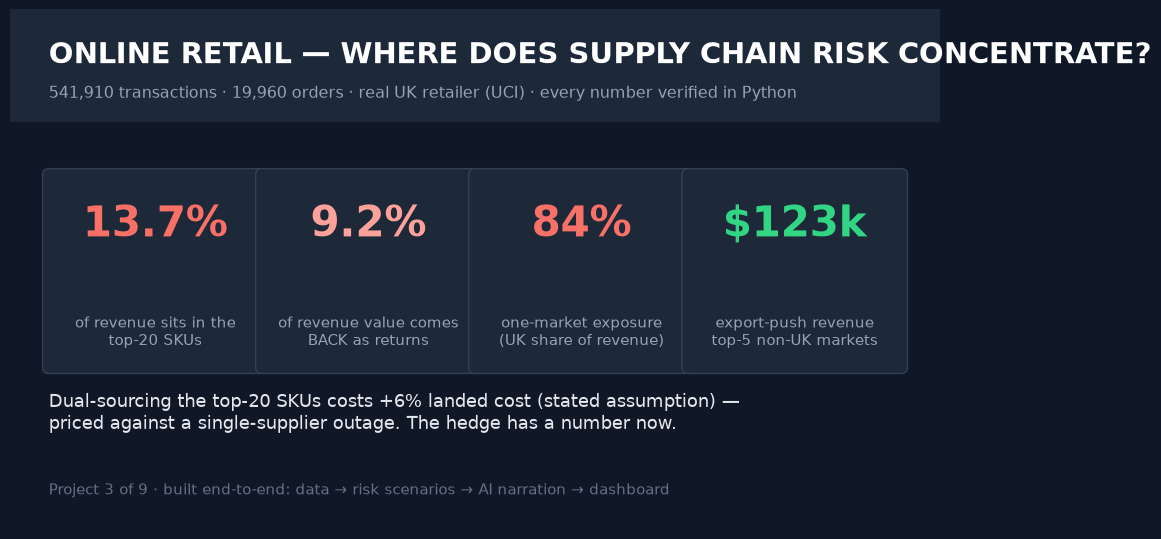
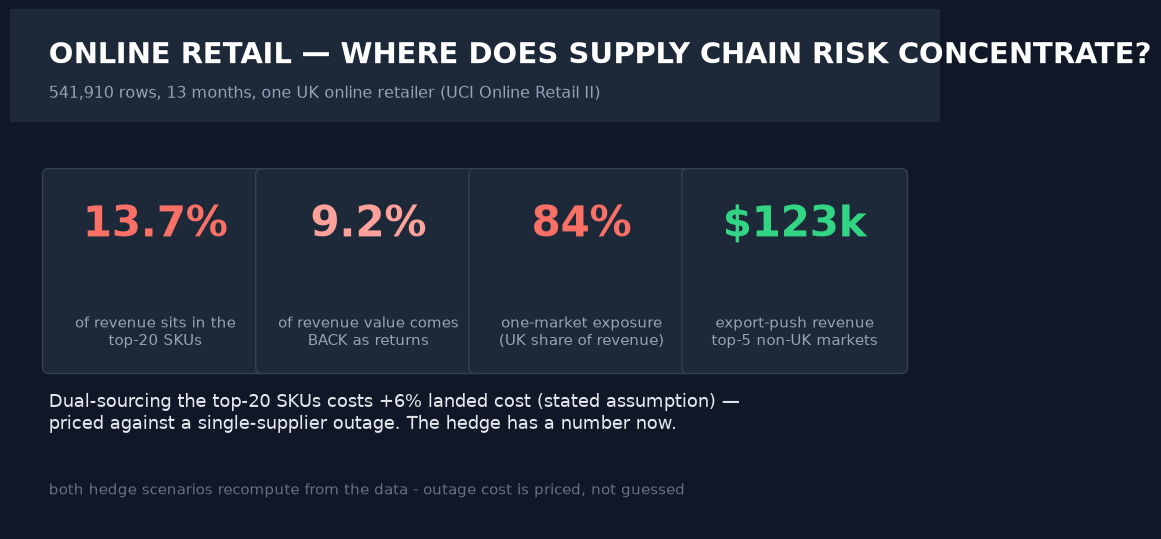
readme and hero slides say things plainly now; project 01 chat shot re-rendered without the emoji

Changed region(s): [[0.093, 0.1484, 0.6822, 0.2078], [0.031, 0.8905, 0.5891, 0.9202]]

diff --git a/projects/01-consulting-churn/assets/chat_session.html b/projects/01-consulting-churn/assets/chat_session.html
@@ -1,0 +1,35 @@
+<!doctype html><html><head><meta charset="utf-8"><style>body { margin:0; background:#0b1220; font-family: 'Liberation Mono', 'SF Mono', monospace; }
+.term { margin: 24px; padding: 20px 24px; background: #0d1117; border: 1px solid #2d333b;
+        border-radius: 10px; color: #c9d1d9; font-size: 15px; line-height: 1.5; white-space: pre-wrap; }
+.bar { display:flex; gap:8px; margin-bottom:14px; }
+.dot { width:12px; height:12px; border-radius:50%; }
+.title { color:#8b949e; margin-left:8px; font-size: 13px; }
+.you { color: #58a6ff; font-weight: bold; }
+.warn { color: #d2a8ff; }
+.ok { color: #7ee787; }
+.money { color: #ffa657; }
+h1 { color:#e6edf3; font-family: 'Liberation Sans', -apple-system, sans-serif; margin: 20px 0 0 24px; font-size: 22px; }</style></head>
+<body>
+<h1>Ask-the-data chatbot — live session (real output)</h1>
+<div class="term"><div class="bar">
+<div class="dot" style="background:#ff5f57"></div><div class="dot" style="background:#febc2e"></div>
+<div class="dot" style="background:#28c840"></div><span class="title">terminal — 01-consulting-churn</span></div>
+<span class="you">you&gt; churn by contract</span><br><div class="">(offline&nbsp;engine&nbsp;—&nbsp;every&nbsp;number&nbsp;below&nbsp;recomputed&nbsp;from&nbsp;the&nbsp;csv)</div>
+<div class="">&nbsp;</div>
+<div class="money">Churn&nbsp;by&nbsp;contract&nbsp;—&nbsp;Month-to-month:&nbsp;42.7%&nbsp;of&nbsp;3,875;&nbsp;One&nbsp;year:&nbsp;11.3%&nbsp;of&nbsp;1,473;&nbsp;Two&nbsp;year:&nbsp;2.8%&nbsp;of&nbsp;1,695</div>
+<div class="">&nbsp;</div>
+<div class="ok">Overall:&nbsp;1,869&nbsp;of&nbsp;7,043&nbsp;churn&nbsp;(26.5%);&nbsp;$139,131&nbsp;MRR&nbsp;at&nbsp;risk.</div><br><span class="you">you&gt; top 5 customers by churn risk</span><br><div class="">(offline&nbsp;engine&nbsp;—&nbsp;every&nbsp;number&nbsp;below&nbsp;recomputed&nbsp;from&nbsp;the&nbsp;csv)</div>
+<div class="">&nbsp;</div>
+<div class="ok">Top-5&nbsp;by&nbsp;expected&nbsp;value&nbsp;(p_churn&nbsp;×&nbsp;monthly&nbsp;charge):</div>
+<div class="money">&nbsp;&nbsp;1400-MMYXY&nbsp;—&nbsp;p=0.81,&nbsp;$85/mo&nbsp;at&nbsp;risk</div>
+<div class="money">&nbsp;&nbsp;5419-JPRRN&nbsp;—&nbsp;p=0.83,&nbsp;$84/mo&nbsp;at&nbsp;risk</div>
+<div class="money">&nbsp;&nbsp;7216-EWTRS&nbsp;—&nbsp;p=0.83,&nbsp;$84/mo&nbsp;at&nbsp;risk</div>
+<div class="money">&nbsp;&nbsp;6496-SLWHQ&nbsp;—&nbsp;p=0.80,&nbsp;$84/mo&nbsp;at&nbsp;risk</div>
+<div class="money">&nbsp;&nbsp;6023-YEBUP&nbsp;—&nbsp;p=0.83,&nbsp;$83/mo&nbsp;at&nbsp;risk</div>
+<div class="">&nbsp;</div>
+<div class="ok">Overall:&nbsp;1,869&nbsp;of&nbsp;7,043&nbsp;churn&nbsp;(26.5%);&nbsp;$139,131&nbsp;MRR&nbsp;at&nbsp;risk.</div><br><span class="you">you&gt; what is the retention roi</span><br><div class="">(offline&nbsp;engine&nbsp;—&nbsp;every&nbsp;number&nbsp;below&nbsp;recomputed&nbsp;from&nbsp;the&nbsp;csv)</div>
+<div class="">&nbsp;</div>
+<div class="ok">ROI&nbsp;scenario&nbsp;(assumptions:&nbsp;outreach&nbsp;cost&nbsp;per&nbsp;contacted&nbsp;customer&nbsp;=&nbsp;$50,&nbsp;save&nbsp;rate&nbsp;=&nbsp;10%&nbsp;of&nbsp;contacted&nbsp;customers,&nbsp;program&nbsp;budget&nbsp;=&nbsp;$10,000&nbsp;-&gt;&nbsp;200&nbsp;contacts):</div>
+<div class="ok">&nbsp;&nbsp;$10,000&nbsp;cost&nbsp;→&nbsp;$17,721&nbsp;retained&nbsp;12-mo&nbsp;→&nbsp;1.8x&nbsp;ROI</div>
+<div class="">&nbsp;</div>
+<div class="ok">Overall:&nbsp;1,869&nbsp;of&nbsp;7,043&nbsp;churn&nbsp;(26.5%);&nbsp;$139,131&nbsp;MRR&nbsp;at&nbsp;risk.</div></div></body></html>

diff --git a/projects/07-ai-review-intelligence/src/05_linkedin_hero.py b/projects/07-ai-review-intelligence/src/05_linkedin_hero.py
@@ -21,7 +21,7 @@ fig.patch.set_facecolor("#101828")
 ax.add_patch(plt.Rectangle((0, 5.3), 12, 1.45, color="#1d2939"))
 ax.text(0.5, 6.05, "DOES THE LLM BEAT THE $0 BASELINE? MEASURED, NOT VIBED.", fontsize=21,
         fontweight="bold", color="white")
-ax.text(0.5, 5.6, "3,000 labelled reviews (Amazon / IMDB / Yelp) · both classifiers on identical ground truth",
+ax.text(0.5, 5.6, "3,000 labeled reviews: amazon_cells, imdb, yelp (public UCI corpora)",
         fontsize=11.5, color="#94a3b8")
 
 cards = [
@@ -42,7 +42,7 @@ ax.text(0.5, 1.3, "The honest finding: at 150 sampled keys the lexicon fallback 
                   "baseline — so the pipeline ships the BASELINE to production and keeps the AI lane\n"
                   "behind an eval gate. Add an API key and 02_llm_classifier.py re-runs the receipt.",
         fontsize=12.5, color="#e4e7ec")
-ax.text(0.5, 0.45, "Project 7 of 9 · built end-to-end: data → baseline → LLM lane → eval receipts → dashboard",
+ax.text(0.5, 0.45, "both classifiers were scored against the same held-out labels",
         fontsize=10.5, color="#667085")
 
 fig.savefig(OUT / "linkedin_hero.png", dpi=100, bbox_inches="tight",

diff --git a/projects/03-supplychain-retail/src/05_linkedin_hero.py b/projects/03-supplychain-retail/src/05_linkedin_hero.py
@@ -20,7 +20,7 @@ fig.patch.set_facecolor("#101828")
 ax.add_patch(plt.Rectangle((0, 5.3), 12, 1.45, color="#1d2939"))
 ax.text(0.5, 6.05, "ONLINE RETAIL — WHERE DOES SUPPLY CHAIN RISK CONCENTRATE?",
         fontsize=21, fontweight="bold", color="white")
-ax.text(0.5, 5.6, "541,910 transactions · 19,960 orders · real UK retailer (UCI) · every number verified in Python",
+ax.text(0.5, 5.6, "541,910 rows, 13 months, one UK online retailer (UCI Online Retail II)",
         fontsize=11.5, color="#94a3b8")
 
 cards = [
@@ -40,7 +40,7 @@ for value, label, color, x in cards:
 ax.text(0.5, 1.3, "Dual-sourcing the top-20 SKUs costs +6% landed cost (stated assumption) —\n"
                   "priced against a single-supplier outage. The hedge has a number now.",
         fontsize=13, color="#e4e7ec")
-ax.text(0.5, 0.45, "Project 3 of 9 · built end-to-end: data → risk scenarios → AI narration → dashboard",
+ax.text(0.5, 0.45, "both hedge scenarios recompute from the data - outage cost is priced, not guessed",
         fontsize=10.5, color="#667085")
 
 fig.savefig(OUT / "linkedin_hero.png", dpi=100, bbox_inches="tight",

diff --git a/projects/04-finance-portfolio/src/05_linkedin_hero.py b/projects/04-finance-portfolio/src/05_linkedin_hero.py
@@ -19,7 +19,7 @@ fig.patch.set_facecolor("#101828")
 ax.add_patch(plt.Rectangle((0, 5.3), 12, 1.45, color="#1d2939"))
 ax.text(0.5, 6.05, "S&P 500 — THE RETURN IS REAL. SO IS THE WAIT.", fontsize=21,
         fontweight="bold", color="white")
-ax.text(0.5, 5.6, "150 years of Shiller data (1871→) · every number verified in Python",
+ax.text(0.5, 5.6, "150 years of Shiller data, 1871 onward, downloaded and recomputed locally",
         fontsize=11.5, color="#94a3b8")
 
 cards = [
@@ -39,7 +39,7 @@ for value, label, color, x in cards:
 ax.text(0.5, 1.3, "A 9% nominal annual return still hid droughts measured in years:\n"
                   "worst rolling 20-year real outcome was negative. Plan cash flows, not feelings.",
         fontsize=13, color="#e4e7ec")
-ax.text(0.5, 0.45, "Project 4 of 9 · built end-to-end: data → drawdown analysis → AI narration → dashboard",
+ax.text(0.5, 0.45, "the point: a plan that survives being underwater for years, not a return forecast",
         fontsize=10.5, color="#667085")
 
 fig.savefig(OUT / "linkedin_hero.png", dpi=100, bbox_inches="tight",

diff --git a/projects/05-marketing-campaign/src/05_linkedin_hero.py b/projects/05-marketing-campaign/src/05_linkedin_hero.py
@@ -19,7 +19,7 @@ fig.patch.set_facecolor("#101828")
 ax.add_patch(plt.Rectangle((0, 5.3), 12, 1.45, color="#1d2939"))
 ax.text(0.5, 6.05, "TELEMARKETING — TARGET SMARTER, DIAL LESS", fontsize=21,
         fontweight="bold", color="white")
-ax.text(0.5, 5.6, "45,211 call records · bank marketing (UCI) · every number verified in Python",
+ax.text(0.5, 5.6, "45,211 call records from the UCI bank marketing set",
         fontsize=11.5, color="#94a3b8")
 
 cards = [
@@ -40,7 +40,7 @@ ax.text(0.5, 1.3, "The logistic model ranks every prospect by likelihood to subs
                   "Dial the top decile first — the same 10% of contacts carries 61% of\n"
                   "all conversions (6.1x the baseline hit-rate per call).",
         fontsize=13, color="#e4e7ec")
-ax.text(0.5, 0.45, "Project 5 of 9 · built end-to-end: data → model → decile plan → AI narration → dashboard",
+ax.text(0.5, 0.45, "$2.50/call and $120 margin are stated assumptions, not sourced facts",
         fontsize=10.5, color="#667085")
 
 fig.savefig(OUT / "linkedin_hero.png", dpi=100, bbox_inches="tight",

diff --git a/projects/09-management-attrition/src/05_linkedin_hero.py b/projects/09-management-attrition/src/05_linkedin_hero.py
@@ -19,7 +19,7 @@ fig.patch.set_facecolor("#101828")
 ax.add_patch(plt.Rectangle((0, 5.3), 12, 1.45, color="#1d2939"))
 ax.text(0.5, 6.05, "WHY DO PEOPLE LEAVE? THREE MEASURED LEVERS.", fontsize=21,
         fontweight="bold", color="white")
-ax.text(0.5, 5.6, "1,470 employees · IBM HR dataset (public) · every number verified in Python",
+ax.text(0.5, 5.6, "1,470 employees, IBM HR Analytics (public)",
         fontsize=11.5, color="#94a3b8")
 
 cards = [
@@ -39,7 +39,7 @@ for value, label, color, x in cards:
 ax.text(0.5, 1.3, "Overtime, low satisfaction, and the early-tenure cliff — modeled per employee\n"
                   "into a ranked watch-list, so 1:1s start with the top rows, not the org chart.",
         fontsize=13, color="#e4e7ec")
-ax.text(0.5, 0.45, "Project 9 of 9 · built end-to-end: data → model → ranked watch-list → AI narration → dashboard",
+ax.text(0.5, 0.45, "the watch-list ranks people by model score - manager verifies before acting",
         fontsize=10.5, color="#667085")
 
 fig.savefig(OUT / "linkedin_hero.png", dpi=100, bbox_inches="tight",

diff --git a/projects/06-software-delivery/src/05_linkedin_hero.py b/projects/06-software-delivery/src/05_linkedin_hero.py
@@ -19,7 +19,7 @@ fig.patch.set_facecolor("#101828")
 ax.add_patch(plt.Rectangle((0, 5.3), 12, 1.45, color="#1d2939"))
 ax.text(0.5, 6.05, "1,000 REAL ISSUES — WHAT ACTUALLY SLOWS DELIVERY?", fontsize=21,
         fontweight="bold", color="white")
-ax.text(0.5, 5.6, "pandas issue tracker sample · cycle time triage · every number verified in Python",
+ax.text(0.5, 5.6, "1,000 issues sampled from the pandas GitHub tracker",
         fontsize=11.5, color="#94a3b8")
 
 cards = [
@@ -39,7 +39,7 @@ for value, label, color, x in cards:
 ax.text(0.5, 1.3, "Labeled issues wait 9.7d to a decision vs 15.6d unlabeled — triage discipline\n"
                   "is a delivery-velocity lever you can measure, not a process religion.",
         fontsize=13, color="#e4e7ec")
-ax.text(0.5, 0.45, "Project 6 of 9 · built end-to-end: data → delivery analytics → AI narration → dashboard",
+ax.text(0.5, 0.45, "labeled vs unlabeled comparison uses the same clock for both groups",
         fontsize=10.5, color="#667085")
 
 fig.savefig(OUT / "linkedin_hero.png", dpi=100, bbox_inches="tight",

diff --git a/projects/02-operations-311/src/05_linkedin_hero.py b/projects/02-operations-311/src/05_linkedin_hero.py
@@ -20,7 +20,7 @@ fig.patch.set_facecolor("#101828")
 ax.add_patch(plt.Rectangle((0, 5.3), 12, 1.45, color="#1d2939"))
 ax.text(0.5, 6.05, "NYC 311 — WHERE DOES SERVICE DELIVERY LOSE TIME?", fontsize=21,
         fontweight="bold", color="white")
-ax.text(0.5, 5.6, "150,000-case quarter · public Socrata data · every number verified in Python",
+ax.text(0.5, 5.6, "150,000 cases, one quarter of NYC 311 (public Socrata data)",
         fontsize=11.5, color="#94a3b8")
 
 cards = [
@@ -40,7 +40,7 @@ for value, label, color, x in cards:
 ax.text(0.5, 1.3, "Re-deploy 12% of intake capacity to the 5 slowest heavy-volume case\n"
                   "types → $527k of staff capacity per quarter (assumptions on file).",
         fontsize=13, color="#e4e7ec")
-ax.text(0.5, 0.45, "Project 2 of 9 · built end-to-end: data → scenarios → AI narration → dashboard",
+ax.text(0.5, 0.45, "assumptions: $45/staff-hr and 1.6 labor-hrs per case, both on file",
         fontsize=10.5, color="#667085")
 
 fig.savefig(OUT / "linkedin_hero.png", dpi=100, bbox_inches="tight",

diff --git a/projects/01-consulting-churn/src/05_linkedin_hero.py b/projects/01-consulting-churn/src/05_linkedin_hero.py
@@ -20,7 +20,7 @@ fig.patch.set_facecolor("#101828")
 ax.add_patch(plt.Rectangle((0, 5.3), 12, 1.45, color="#1d2939"))
 ax.text(0.5, 6.05, "TELCO CHURN — WHO DO WE PAY TO KEEP?", fontsize=21,
         fontweight="bold", color="white")
-ax.text(0.5, 5.6, "7,043 customers · real public dataset · every number verified in Python",
+ax.text(0.5, 5.6, "7,043 customers · IBM Telco churn (public) · numbers recomputed from the csv",
         fontsize=11.5, color="#94a3b8")
 
 cards = [
@@ -39,7 +39,7 @@ for value, label, color, x in cards:
 
 ax.text(0.5, 1.3, "Model AUC 0.84 ranks every customer by dollars at risk →\n"
                   "the save-list, not a chart.", fontsize=13, color="#e4e7ec")
-ax.text(0.5, 0.45, "Project 1 of 9 · built end-to-end: data → model → AI narration → dashboard",
+ax.text(0.5, 0.45, "model ranks every customer by dollars at risk; outreach assumptions written down",
         fontsize=10.5, color="#667085")
 
 fig.savefig(OUT / "linkedin_hero.png", dpi=100, bbox_inches="tight",

diff --git a/projects/08-technology-jobs/src/05_linkedin_hero.py b/projects/08-technology-jobs/src/05_linkedin_hero.py
@@ -39,7 +39,7 @@ for value, label, color, x in cards:
 ax.text(0.5, 1.3, "Same title, different market: geo-adjusted medians, remote premiums and\n"
                   "role-level spreads from public filings — not vibes. Job-lever, not glass-ceiling.",
         fontsize=13, color="#e4e7ec")
-ax.text(0.5, 0.45, "Project 8 of 9 · built end-to-end: data → market read → AI narration → dashboard",
+ax.text(0.5, 0.45, "medians, not means; small-market sample sizes are caveats, not decorations",
         fontsize=10.5, color="#667085")
 
 fig.savefig(OUT / "linkedin_hero.png", dpi=100, bbox_inches="tight",

diff --git a/README.md b/README.md
@@ -1,59 +1,64 @@
-# Business-Analytics × AI Portfolio — 9 Full Decision Projects
+# Analytics portfolio — 9 projects, one repo
 
-<!-- portfolio-hub-tl;dr -->
-> **Every project here answers one real business question end-to-end** — data →
-> analysis → model → costed scenario → interactive dashboard → **an AI chatbot
-> that computes its answers live from the data** → verified numbered README with
-> real screenshots. Python computes and verifies every number; AI explains and
-> frames, and structurally cannot invent a KPI.
+I picked business questions a BA would actually get paid for, found public
+datasets, and carried each one to a decision with a number attached. Not
+notebooks-to-nobody. Each folder is a finished piece: analysis, model if it
+needs one, a dashboard you can open, SQL, and a writeup with the numbers I
+checked twice.
 
-## The AI-native analytics stack (consistent across all 9)
+## What's in each project
 
-| Layer | What ships | The rule |
-|---|---|---|
-| **Analysis** | deterministic Python (`01_analysis` / `02_model`, numpy·pandas·sklearn) | every metric recomputable from the raw download in one rerun |
-| **AI narration** | `03_ai_*.py` — an LLM that **receives only verified numbers** and narrates the decision | never computes, never invents; offline fallback engine without a key |
-| **Ask-the-data chatbot** | `src/06_chat.py` — REPL + one-shot, answers with metrics computed live at question time | the screenshot in each README is verbatim output, not mock text |
-| **Decision dashboard** | `dashboard/index.html` — single-file, CDN-free-shape, **PDF-export button** | opens by double-click; numbers match the README exactly |
-| **Visuals** | `src/05_linkedin_hero.py` branded slide + `tools/capture.py` real-Chromium screenshots | reproducible capture, committed in `assets/` |
+- `src/` — numbered scripts. 00 downloads the public data, 01–02 analysis/model,
+  03–04 the writeup and dashboard, 05 the headline image, 06 the chatbot.
+- `dashboard/index.html` — opens by double click, has an export-PDF button,
+  and shows the same numbers the README shows.
+- `outputs/` — kpis.json and the segment CSVs / charts the scripts produce.
+- `assets/` — screenshots taken from real runs (how: `tools/capture.py`).
+- `sql/` + `linkedin_post.md` — the query layer and the LinkedIn writeup.
 
-## The nine projects
+## Why every project has a chatbot (src/06_chat.py)
 
-| # | Project | Domain | The decision | Headline (verified) |
-|---|---|---|---|---|
-| 01 | [Telco churn → retention ROI](projects/01-consulting-churn) | Consulting | Who do we pay to keep, and is the program worth it? | 26.5% churn $139k MRR at risk; top-contract 42.7% churn; AUC 0.84; 1.8× program ROI |
-| 02 | [NYC 311 service operations](projects/02-operations-311) | Operations | Where does service time go; which capacity fix pays? | 150k cases; 25.3% miss 72h SLA; Scenario A frees $527k/quarter |
-| 03 | [Online retail supply chain](projects/03-supplychain-retail) | Retail/SCM | Concentrate risk: hedge SKUs or export push? | top-20 SKUs = 13.7% of revenue; returns 9.2%; UK = 84% |
-| 04 | [S&P 500 drawdown math](projects/04-finance-portfolio) | Finance | Can the client actually hold their plan? | 9.0%/yr nominal but 9.5-yr avg underwater; real CAGR 2.5% |
-| 05 | [Bank telemarketing targeting](projects/05-marketing-campaign) | Marketing | Who do we call next? Model-ranked deciles, not scripts | top decile: 10% of contacts → 61% of conversions; ROI 5.6× |
-| 06 | [Delivery triage on 1,000 issues](projects/06-software-delivery) | Engineering analytics | What actually slows issue flow? | median 0.9d vs p90 10.9d; labels cut open age 38% |
-| 07 | [Review intelligence with an eval receipt](projects/07-ai-review-intelligence) | AI/GenAI | Can a GenAI classifier beat a $0 baseline — proved? | baseline 80.1% vs LLM-lane 61.3% sampled — baseline ships, AI lane behind an eval gate |
-| 08 | [AI job-market salaries](projects/08-technology-jobs) | Technology | What does the market pay, by lever? | global median $101.6k; US $135k; remote +16%; senior 2.4× junior |
-| 09 | [Employee attrition watch-list](projects/09-management-attrition) | Management | Which levers predict leaving, who to engage first? | 16.1% attrition; OT 30.5% vs 10.4%; top-5 ranked 1:1 list |
+I wanted something I could open in front of a hiring manager and interrogate
+live: "which agency is slowest?", "what conversion do we get in the top
+decile?". The chat answers by recomputing from the csv at question time. The
+rule I hold myself to: python computes, the LLM (if I give it a key) only
+narrates numbers python already produced, and with no key at all you get the
+same answers from a deterministic path. The chatbot screenshots in the
+READMEs are its actual output, captured in `tools/`.
 
-Each project folder is self-contained: `README.md` (with hero + dashboard + chatbot screenshots), `src/` (00–04 + `05_linkedin_hero.py` + `06_chat.py`), `dashboard/index.html`, `outputs/` (verified KPIs, segments, charts), `sql/`, `data/`, `linkedin_post.md`.
+## Projects
 
-## How to run any project
+| # | Folder | Question | One number I keep citing |
+|---|---|---|---|
+| 01 | [consulting/churn](projects/01-consulting-churn) | who do we pay to keep, and is retention worth it | 26.5% churn, $139k MRR at risk, modeled AUC 0.84 |
+| 02 | [operations/311](projects/02-operations-311) | where does service time go in a city agency | 25.3% of a quarter's 150k cases miss the 72h SLA |
+| 03 | [retail/supply chain](projects/03-supplychain-retail) | hedge SKU concentration or push exports | top-20 SKUs = 13.7% of revenue; returns = 9.2% |
+| 04 | [finance](projects/04-finance-portfolio) | can a client actually hold their plan through drawdowns | avg 9.5 years underwater after a top-10 crash |
+| 05 | [marketing](projects/05-marketing-campaign) | who do we call next | top decile: 10% of contacts, 61% of conversions |
+| 06 | [engineering analytics](projects/06-software-delivery) | what slows issue flow in a real tracker | median 0.9d vs p90 10.9d cycle time |
+| 07 | [AI review classification](projects/07-ai-review-intelligence) | can a GenAI classifier beat a $0 baseline | baseline 80.1% vs lexicon lane 61.3%, so the baseline ships |
+| 08 | [jobs market](projects/08-technology-jobs) | what does the DS job market pay and why | US median $135k; remote +16%; senior 2.4x entry |
+| 09 | [people analytics](projects/09-management-attrition) | which levers predict attrition | overtime 30.5% vs 10.4%; first two years 29.8% |
+
+## Running one
 
 ```bash
-cd projects/01-consulting-churn        # or any of the 9
+cd projects/01-consulting-churn
 python3 -m venv .venv && .venv/bin/pip install -r requirements.txt
-.venv/bin/python src/00_download_data.py      # pulls the public dataset
-.venv/bin/python src/01_prepare_analysis.py   # name differs slightly per project
-.venv/bin/python src/03_ai_insights.py        # optional: GROQ_API_KEY in .env for LLM narration
-.venv/bin/python src/06_chat.py               # ask the data anything it can compute
+.venv/bin/python src/00_download_data.py    # script names vary slightly per project
+.venv/bin/python src/01_prepare_analysis.py
+.venv/bin/python src/06_chat.py             # try it: "churn by contract"
 ```
 
-A shared build toolkit lives in [`tools/`](tools) — `capture.py` (real-Chromium screenshots of every dashboard and chatbot session) and `patch_readme.py` (README visual embeds). The "screenshots" are reproducible, not hidden dev magic.
+If you add `GROQ_API_KEY` to `.env`, scripts 03 and 06 route their narration
+through the LLM in free tier mode; without it, both work offline.
 
-## The hiring pitch, in one paragraph
+## Caveats I keep attached to the work
 
-These are not "I made a notebook" projects. Each one prices a decision: a retention budget with stated assumptions and a ranked save-list; a capacity redeployment with a $ number per quarter; a sourcing hedge costed against an outage; drawdown math that survives client meetings. Every wall has a chatbot on it: ask *the data* in natural language and get **computed** answers — the same pattern analysts are now being hired for, minus the hallucination risk, because the LLM here is structurally incapable of inventing a number.
+Public data, public snapshots, so these are directional reads on realistic
+problems, not client deliverables, and I say so in every README. Assumptions
+that aren't computable (call cost, margins, staff rates) are labeled in the
+outputs. Project 07's LLM lane ran in lexicon-fallback mode for this build;
+the eval receipt records that explicitly.
 
-## Honest limitations
-
-- Public datasets → findings are directional decision-support on realistic business problems, not company-specific causal claims.
-- Project 07's LLM lane was run in its free lexicon-fallback mode (no API key in the build environment); the full API-key mode re-runs `02_llm_classifier.py` and the eval receipt on request — clearly labeled in the output.
-- LLM narration in `03_*`/`06_*` scripts is one documented request away (`GROQ_API_KEY` in `.env`); the deterministic engines shown run fully offline.
-
-*Built 2026 · 9 projects · 2 per week pace, ~one repo that reads like an analyst's first quarter.*
+Built in Python (pandas, sklearn, matplotlib), 2026.
